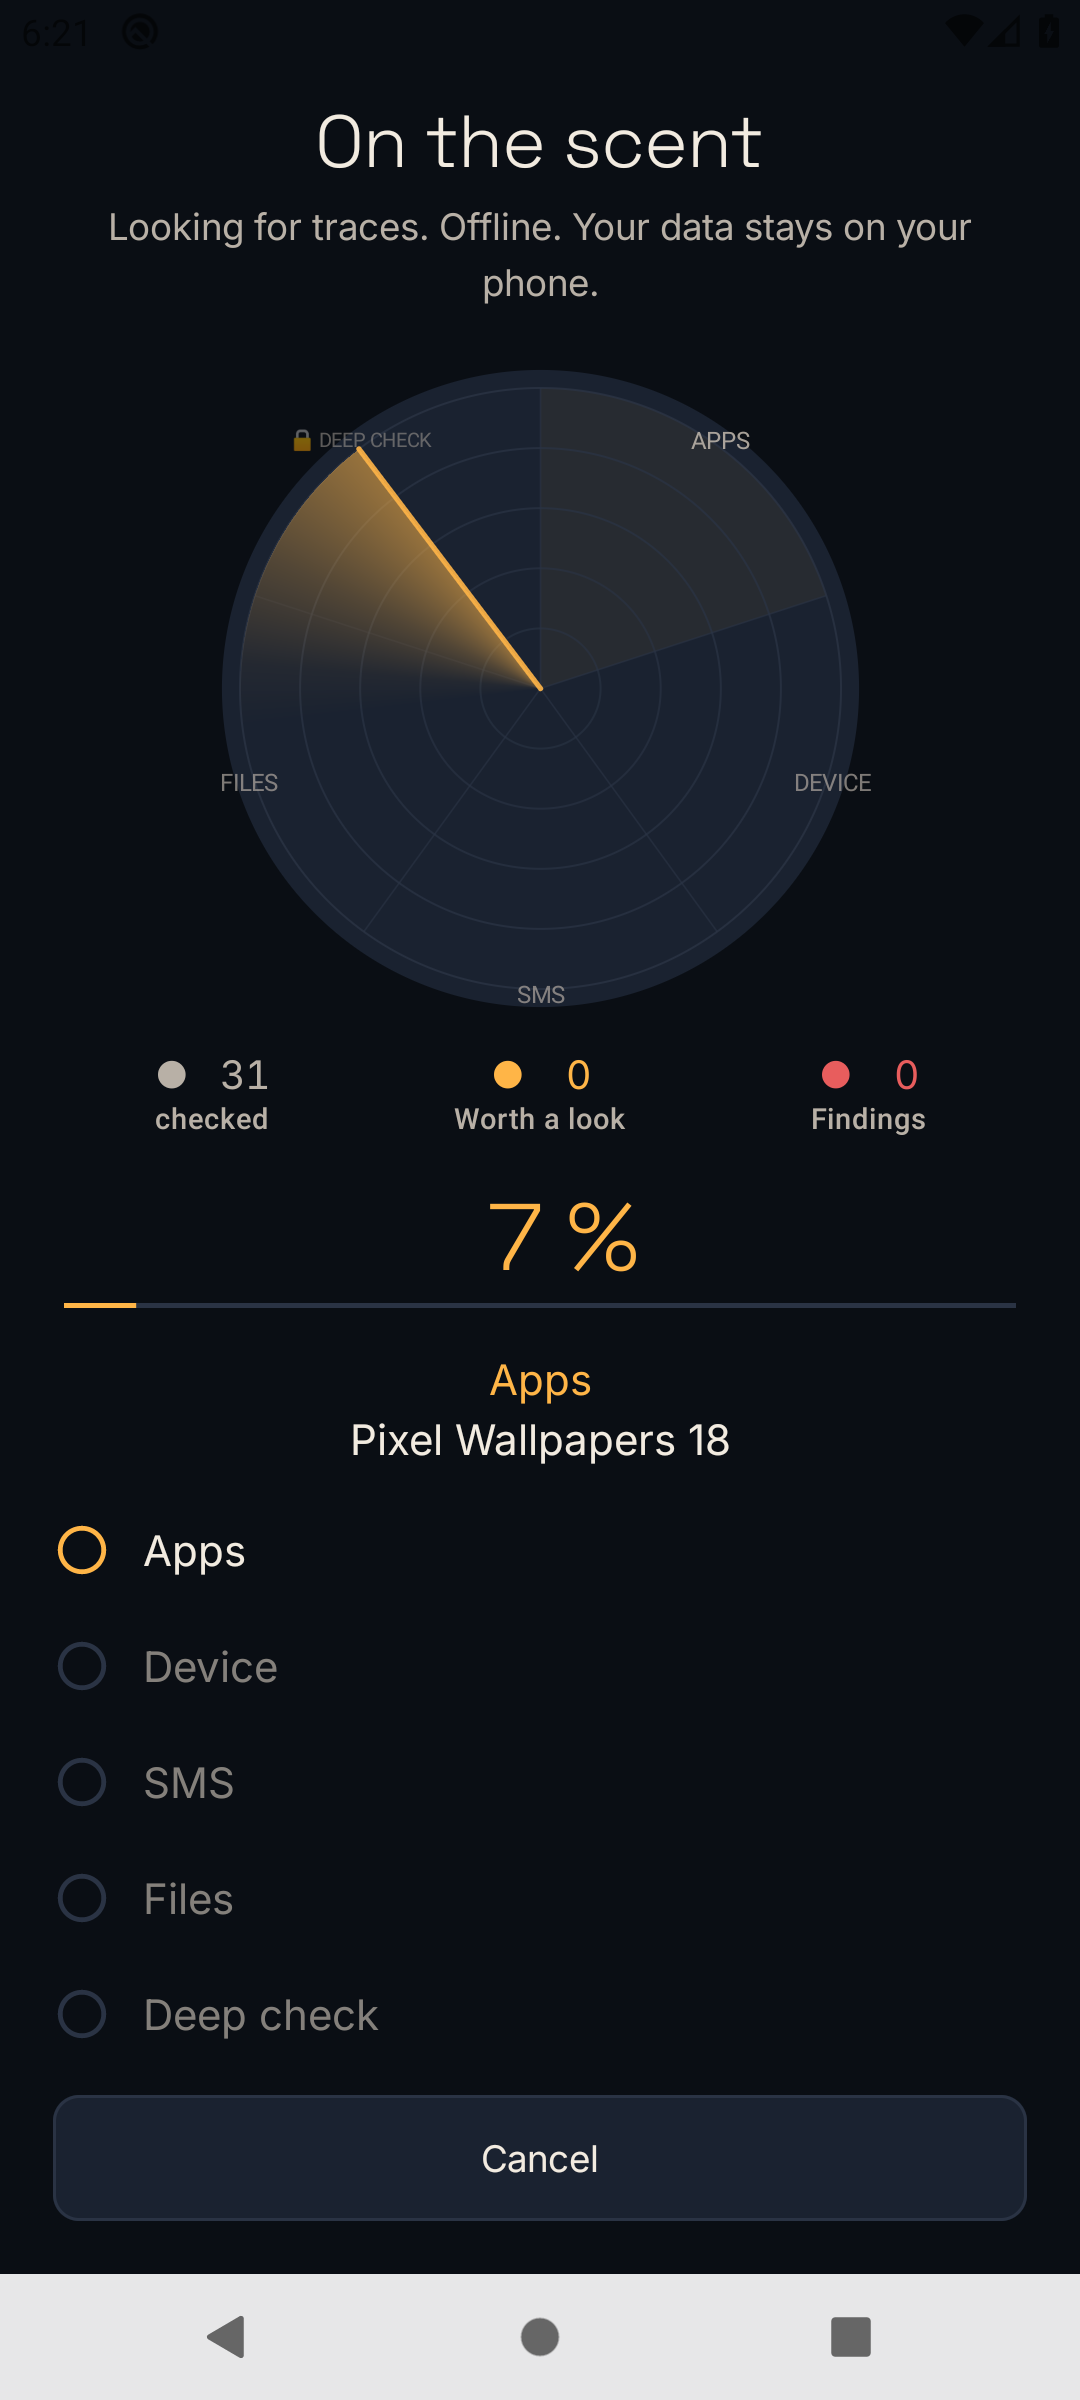
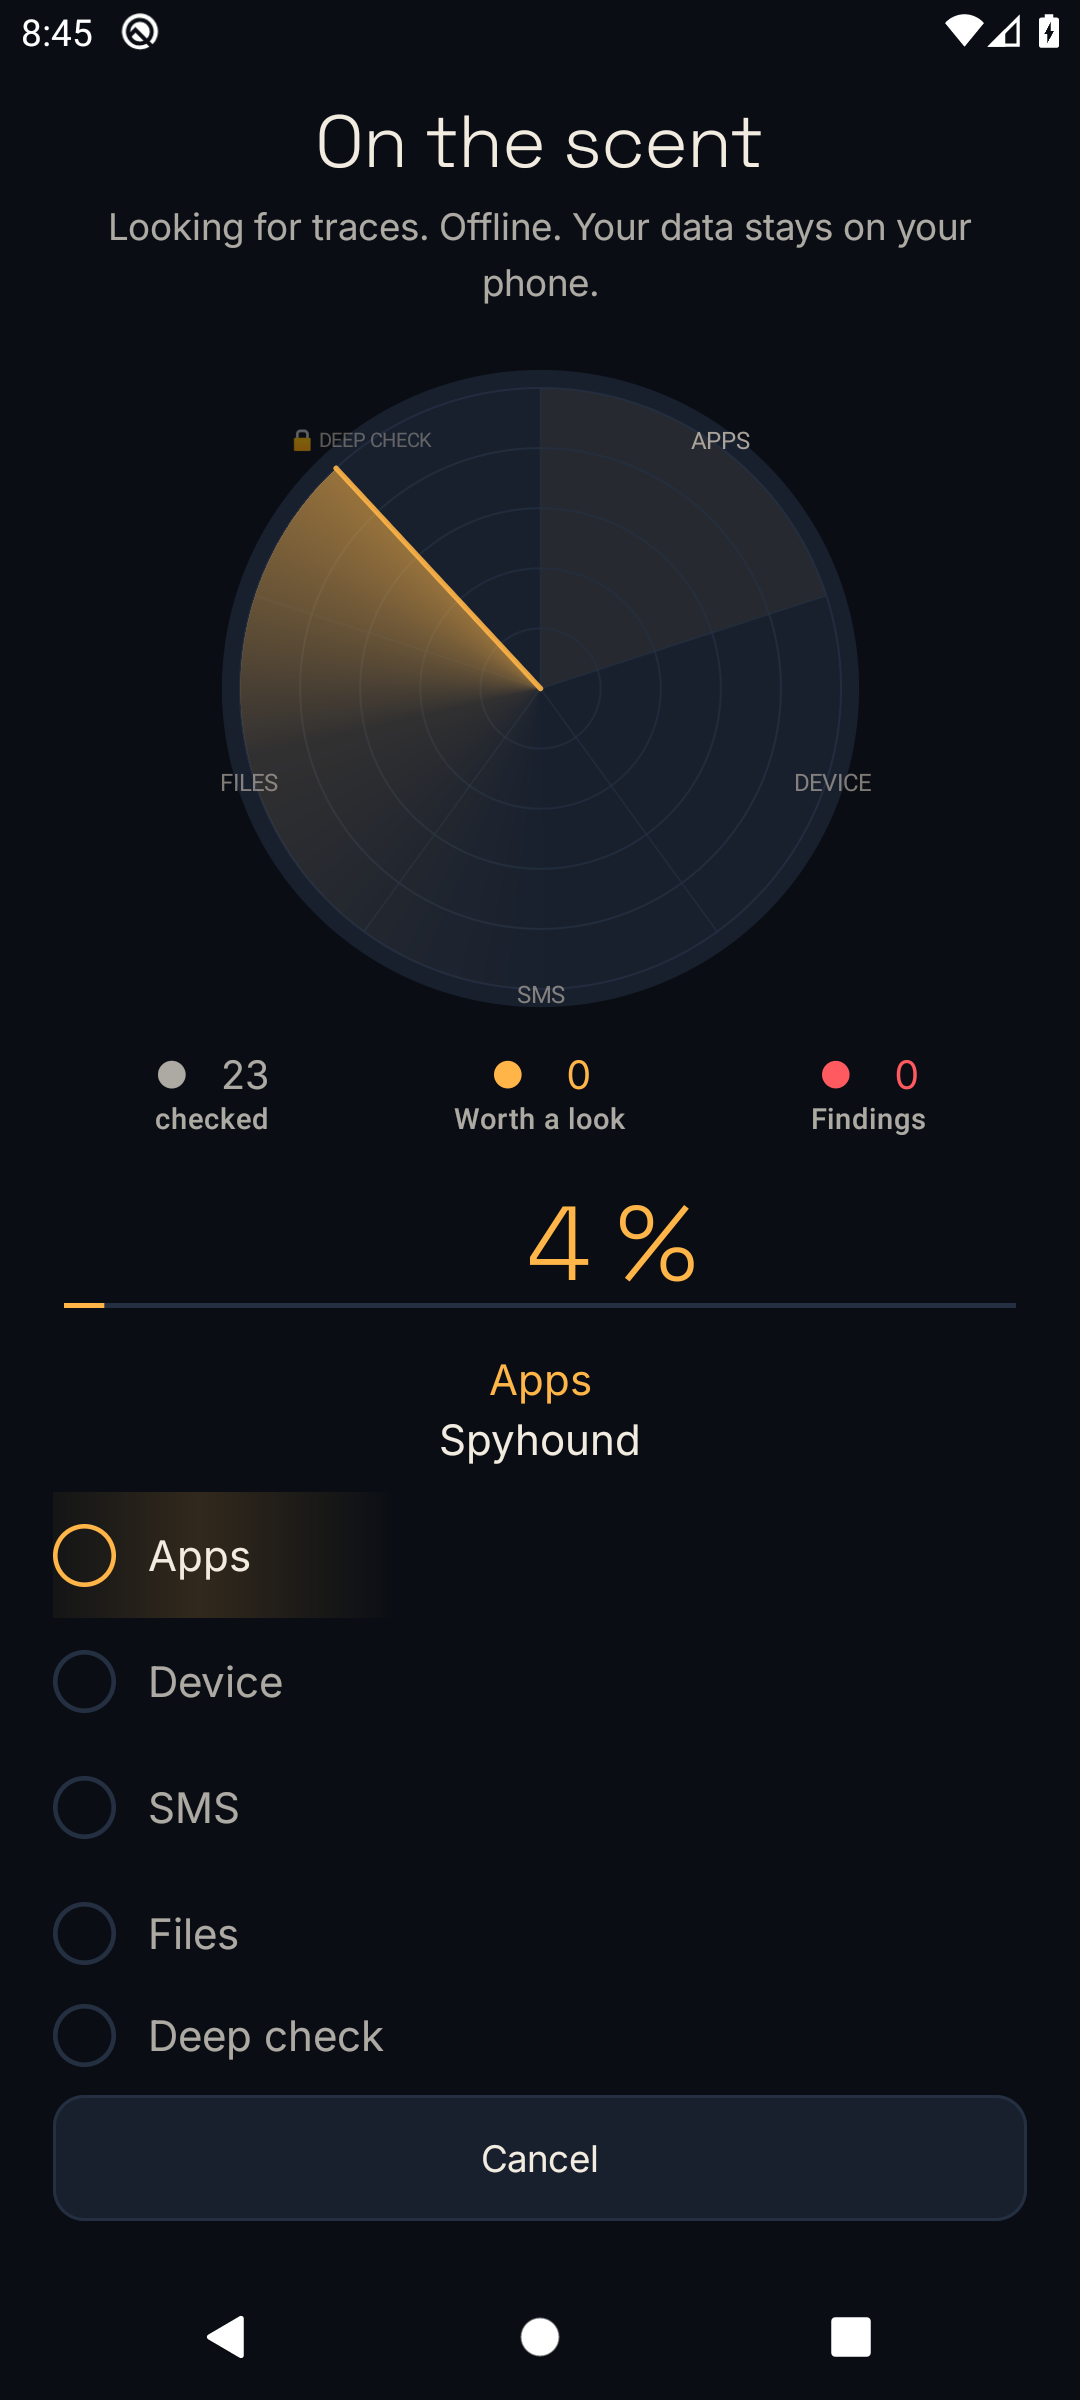
Post the pairing notification only when its text changes
Reposting every 1.5 s could disturb a code being typed into the reply field.
A swiped-away notification is still brought back.

diff --git a/app/src/main/kotlin/de/belkis/spyhound/shell/BuiltinAdb.kt b/app/src/main/kotlin/de/belkis/spyhound/shell/BuiltinAdb.kt
@@ -104,7 +104,7 @@ object BuiltinAdb {
                     ))
                 }
                 when (s) {
-                    AdbSetupState.WaitingForPairingCode -> AdbPairingNotification.show(app, wrongCode = wrongCode)
+                    AdbSetupState.WaitingForPairingCode -> AdbPairingNotification.show(app, wrongCode = wrongCode, onlyIfChanged = true)
                     AdbSetupState.Paired -> { connect(app); return }
                     AdbSetupState.Connected, is AdbSetupState.Failed -> return
                     AdbSetupState.Pairing -> Unit
@@ -179,7 +179,15 @@ internal object AdbPairingNotification {
     private const val CHANNEL = "adb_pairing"
     private const val ID = 4712
 
-    fun show(context: Context, wrongCode: Boolean = false, pairing: Boolean = false, lost: Boolean = false) {
+    /** Text of the notification currently posted, or null after [cancel]. */
+    @Volatile private var shownBody: Int? = null
+
+    /**
+     * Posts the notification. With [onlyIfChanged] (the polling loop) it is left alone while the same text is still
+     * showing: reposting every poll would disturb a code being typed. A reply always reposts, since Android keeps a
+     * spinner on the reply field until the notification is updated.
+     */
+    fun show(context: Context, wrongCode: Boolean = false, pairing: Boolean = false, lost: Boolean = false, onlyIfChanged: Boolean = false) {
         val ctx = AppLanguage.localizedContext(context)
         val nm = context.getSystemService(NotificationManager::class.java) ?: return
         nm.createNotificationChannel(
@@ -191,6 +199,8 @@ internal object AdbPairingNotification {
             wrongCode -> R.string.adb_notif_wrong
             else -> R.string.adb_notif_text
         }
+        // Android 14+ lets the user swipe away even an ongoing notification; then it is posted again.
+        if (onlyIfChanged && shownBody == body && nm.activeNotifications.any { it.id == ID }) return
         val builder = NotificationCompat.Builder(context, CHANNEL)
             .setSmallIcon(R.drawable.ic_launcher_monochrome)
             .setContentTitle(ctx.getString(R.string.adb_notif_title))
@@ -211,9 +221,11 @@ internal object AdbPairingNotification {
             )
         }
         runCatching { nm.notify(ID, builder.build()) } // without notification permission the app screen still guides
+        shownBody = body
     }
 
     fun cancel(context: Context) {
+        shownBody = null
         context.getSystemService(NotificationManager::class.java)?.cancel(ID)
     }
 }
